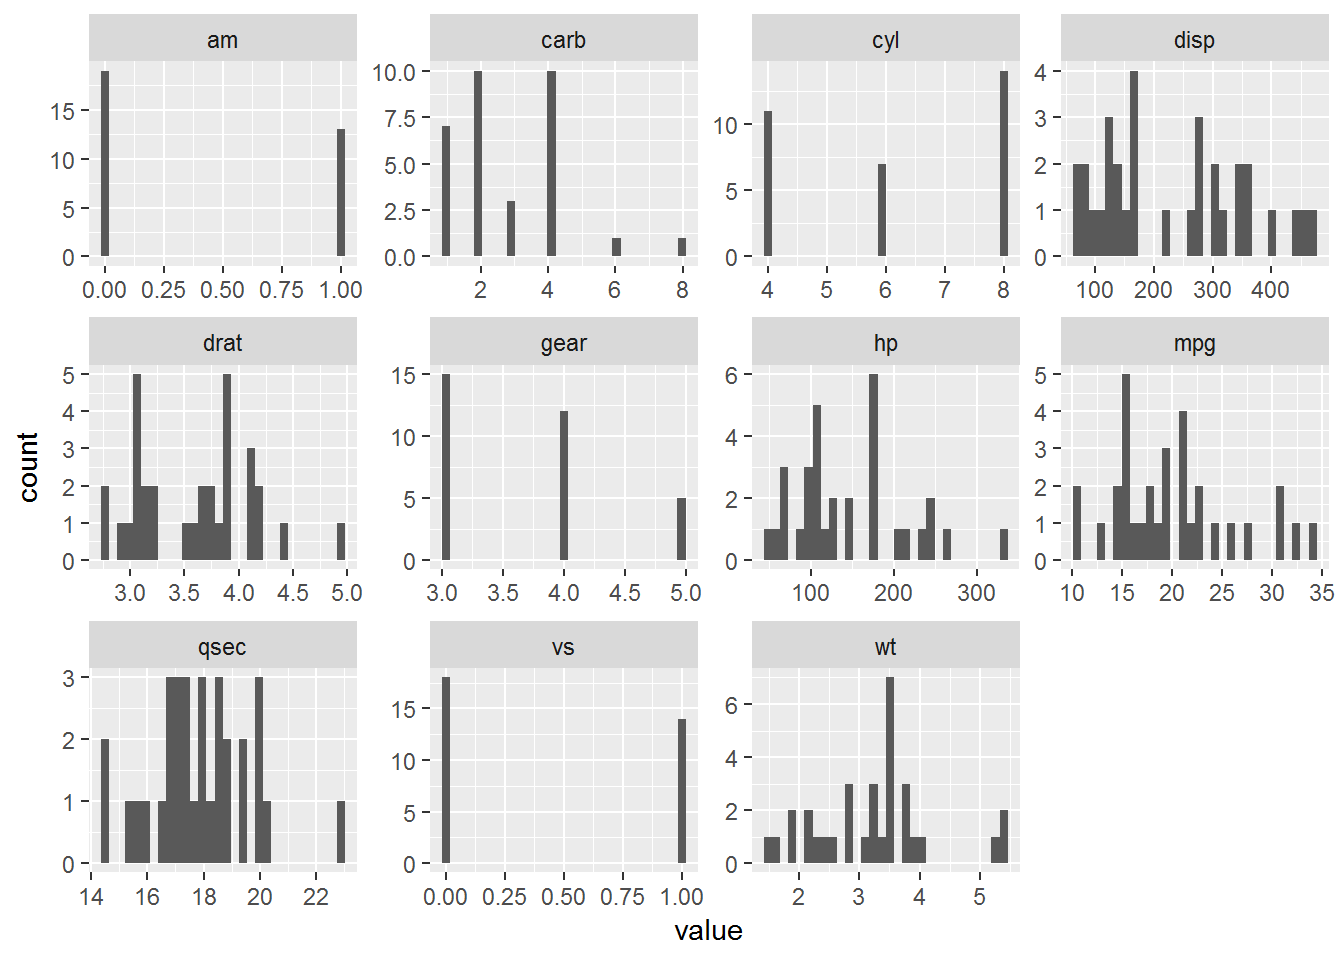
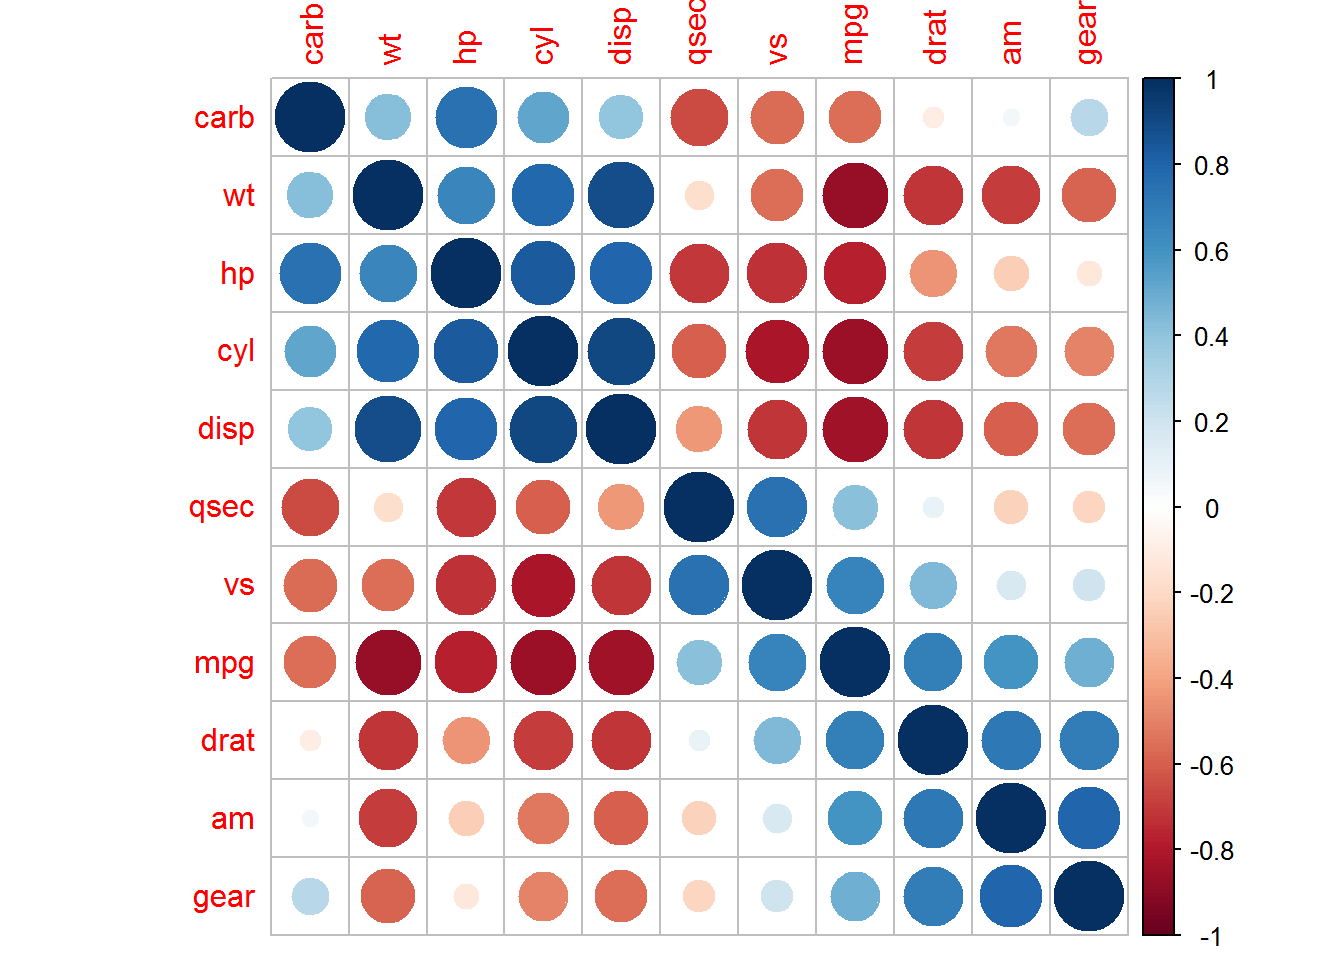
added clustering correlation example

diff --git a/content/cheat.html b/content/cheat.html
@@ -720,6 +720,9 @@ purrr::map_df(my_list, magrittr::extract)
 <pre class="r"><code>M &lt;- cor(mtcars)
 corrplot::corrplot(M, method=&quot;color&quot;)</code></pre>
 <p><img src="/cheat_files/figure-html/unnamed-chunk-30-1.png" width="672" /></p>
+<p>with clustering</p>
+<pre class="r"><code>corrplot::corrplot(M, order = &quot;hclust&quot;)</code></pre>
+<p><img src="/cheat_files/figure-html/unnamed-chunk-31-1.png" width="672" /></p>
 </div>
 <div id="plot-distribution-of-all-variables" class="section level3">
 <h3>plot distribution of all variables</h3>
@@ -731,5 +734,5 @@ corrplot::corrplot(M, method=&quot;color&quot;)</code></pre>
     ggplot2::facet_wrap(~key, scales = &quot;free&quot;) + 
     ggplot2::geom_histogram()
 #&gt; `stat_bin()` using `bins = 30`. Pick better value with `binwidth`.</code></pre>
-<p><img src="/cheat_files/figure-html/unnamed-chunk-31-1.png" width="672" /></p>
+<p><img src="/cheat_files/figure-html/unnamed-chunk-32-1.png" width="672" /></p>
 </div>
